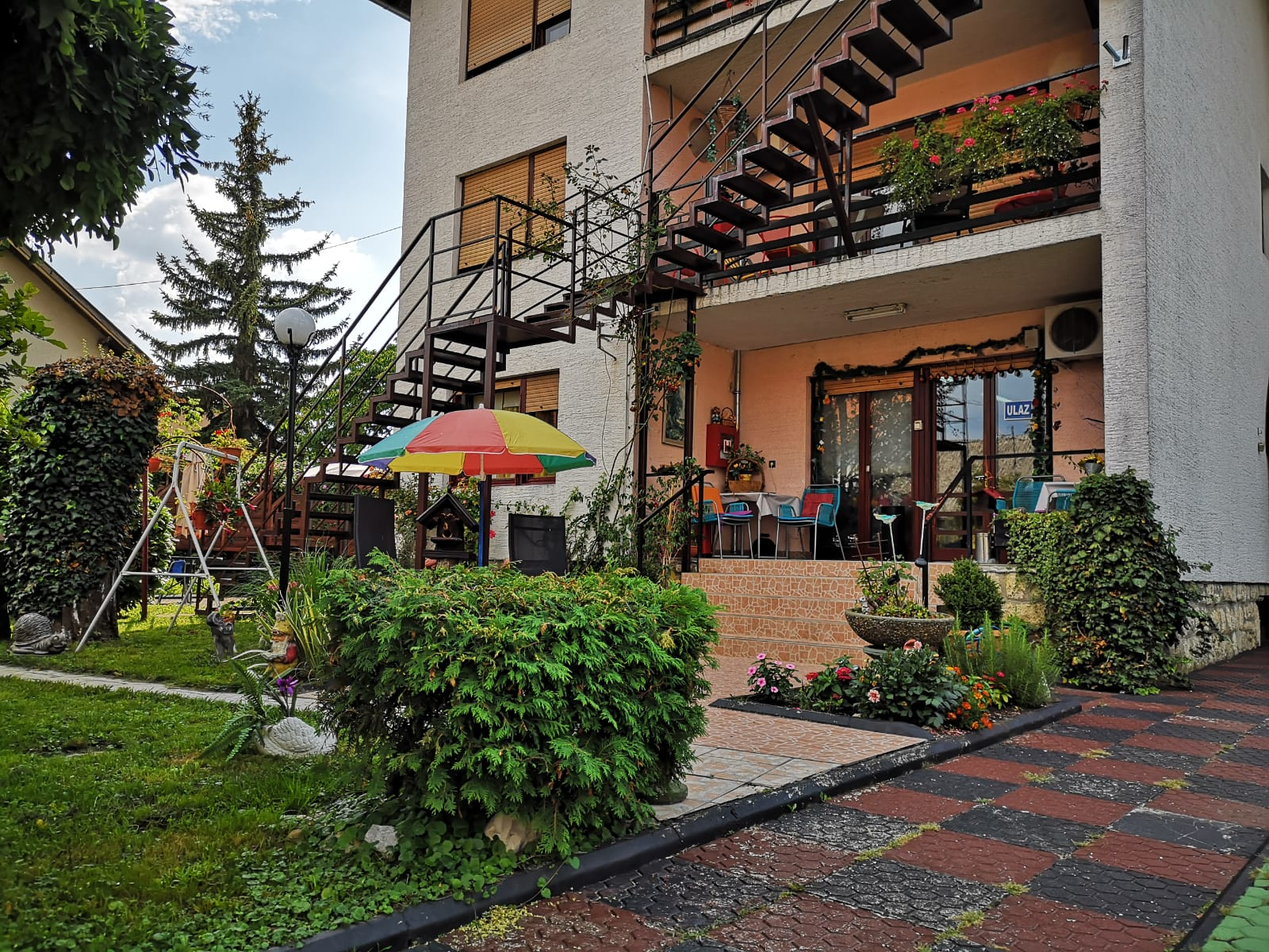
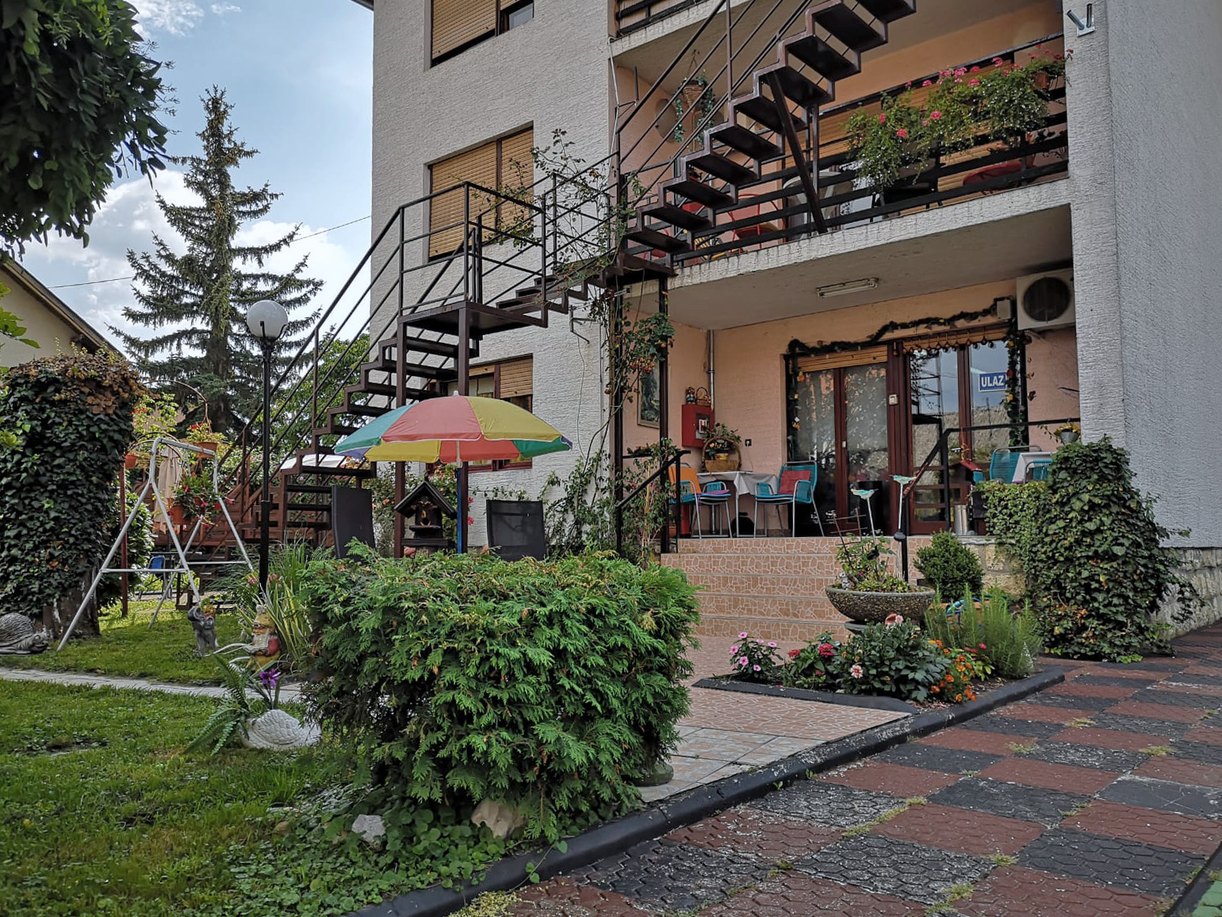
finalizacijacontenta

diff --git a/styling.css b/styling.css
@@ -11,6 +11,7 @@ ul {
   list-style-type: none;
   padding: 0;
   margin: 0;
+  line-height: 1.6;
 }
 
 h1 {
@@ -66,8 +67,6 @@ img:first-child{
   margin-bottom: 3em;
 }
 
-
-
 .usluge {
   margin-top: 40px;
   margin-bottom: 20px;
@@ -91,12 +90,23 @@ img:first-child{
   margin-bottom: 3em;
 }
 
-.slike {
+.slike1 {
   display: flex;
   flex-wrap: wrap;
   align-items: flex-start;
   justify-content: center;
   grid-row-start: 4;
+  grid-column-start: 1;
+  grid-column-end: 11;
+}
+
+.slike2 {
+  margin-top: 5%;
+  display: flex;
+  flex-wrap: wrap;
+  align-items: flex-start;
+  justify-content: center;
+  grid-row-start: 5;
   grid-column-start: 1;
   grid-column-end: 11;
 }
@@ -107,23 +117,29 @@ img:first-child{
   background-color: #FFEEE4;
   padding: 2em 2em 0em 2em;
   grid-column-end: 9;
+  margin-bottom: 0;
 }
-
 
 .kontaktcontainer {
   display: flex;
-  justify-content: flex-end;
+  flex-direction: column;
+  grid-row-start: 6;
+  align-items: flex-end;
 }
 
 .kontakt {
+  margin-top: -6em;
   padding: 1em 1.5em 0.25em 1.5em;
-  border-radius: 10px;
-  background-color: white;
-  box-shadow: 0px 4px 24px 0px rgba(0,0,0,0.10);
+  background-color: black;
+
+  background-color: #FFEEE4;
+  border: 2px solid black;
+  box-shadow: 0px 0px 0px 14px rgba(255,238,228,1)
 }
 
 .zakonodavstvo {
   line-height: 1.6;
+
 }
 
 .opis {

diff --git a/index.html b/index.html
@@ -14,7 +14,6 @@
 <body>
   <section class="wrapper">
 
-
     <section class="vrh sekcija">
     <h1>
       Merry — dom za starije osobe
@@ -56,9 +55,9 @@
     <p class="center opis">Trenutni kapacitet — 40 / 40 popunjeno</p>
   </section>
 
-  <section class="slike">
+  <section class="slike1">
     <img class="sekcija" src="slike/slika-1.jpg" alt="Dvorište">
-    <img class="sekcija" src="slike/slika-1.jpg" alt="Dvorište">
+    <img class="sekcija" src="slike/slika-2.jpg" alt="Klupa">
   </section>
 
   <section class="odomu sekcija">
@@ -74,6 +73,11 @@
     </ul>
   </section>
 
+  <section class="slike2">
+    <img class="sekcija" src="slike/slika-3.jpg" alt="Dvorište-drugi kut">
+    <img class="sekcija" src="slike/slika-4.jpg" alt="Terasa">
+  </section>
+
   <section class="kontaktcontainer sekcija">
     <section class="kontakt">
       <h2>Kontakt</h2>
@@ -87,7 +91,7 @@
     </section>
   </section>
 
-  <section class="zakonodavstvo righttext sekcija">
+  <section class="zakonodavstvo lefttext sekcija">
     <p>
       Dom za starije osobe Merry dom
       <br>
